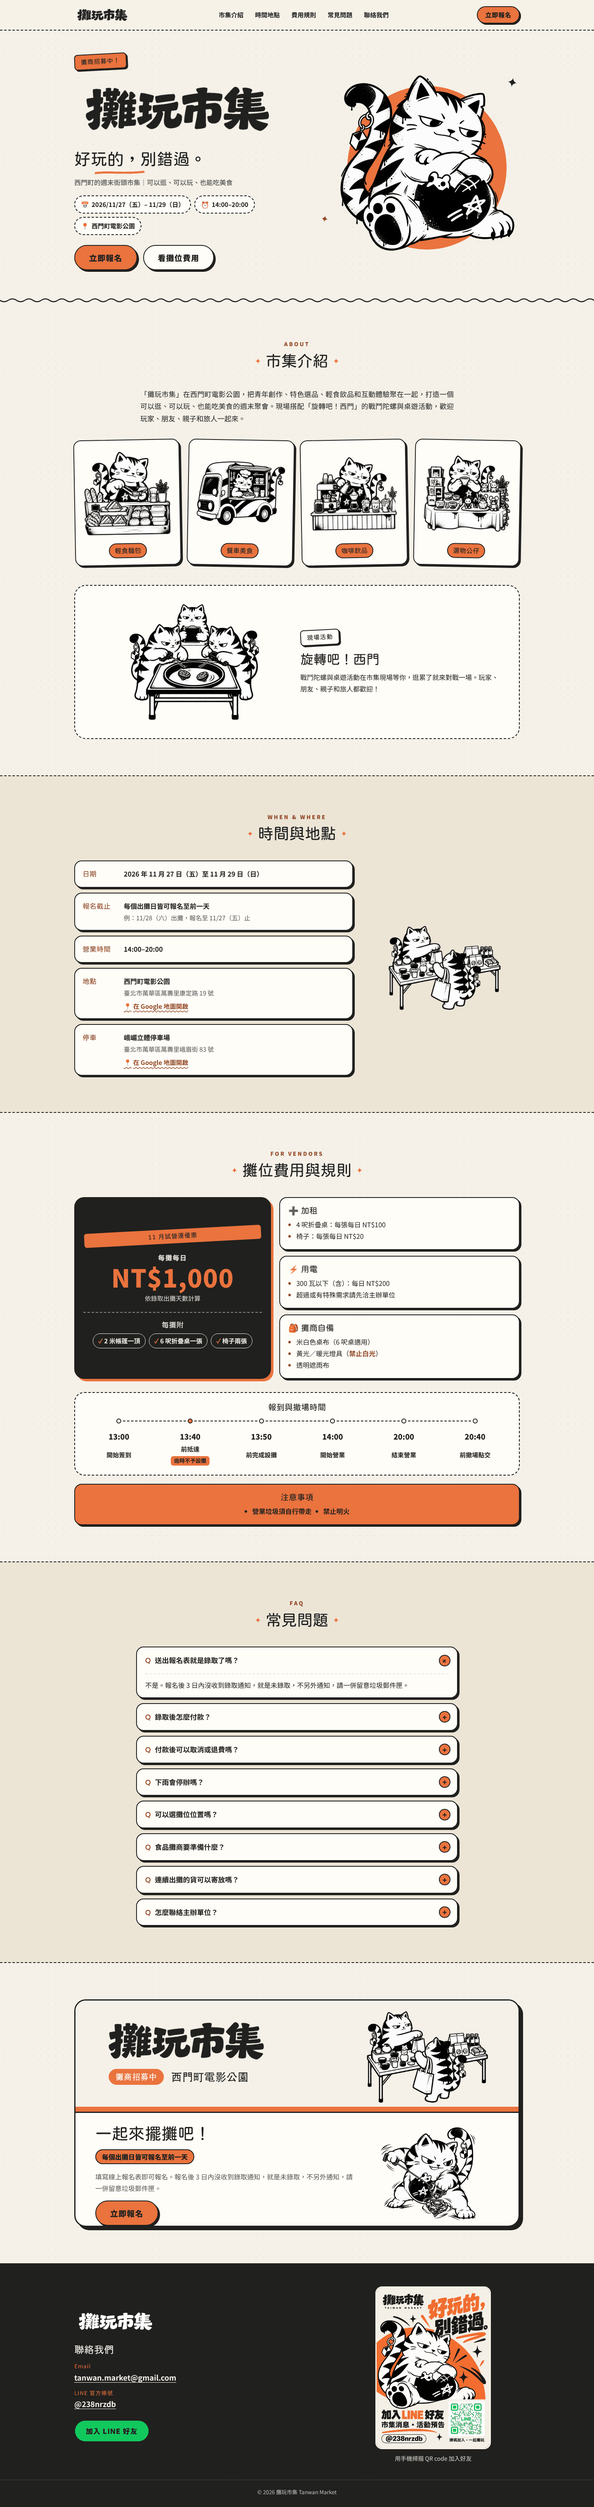
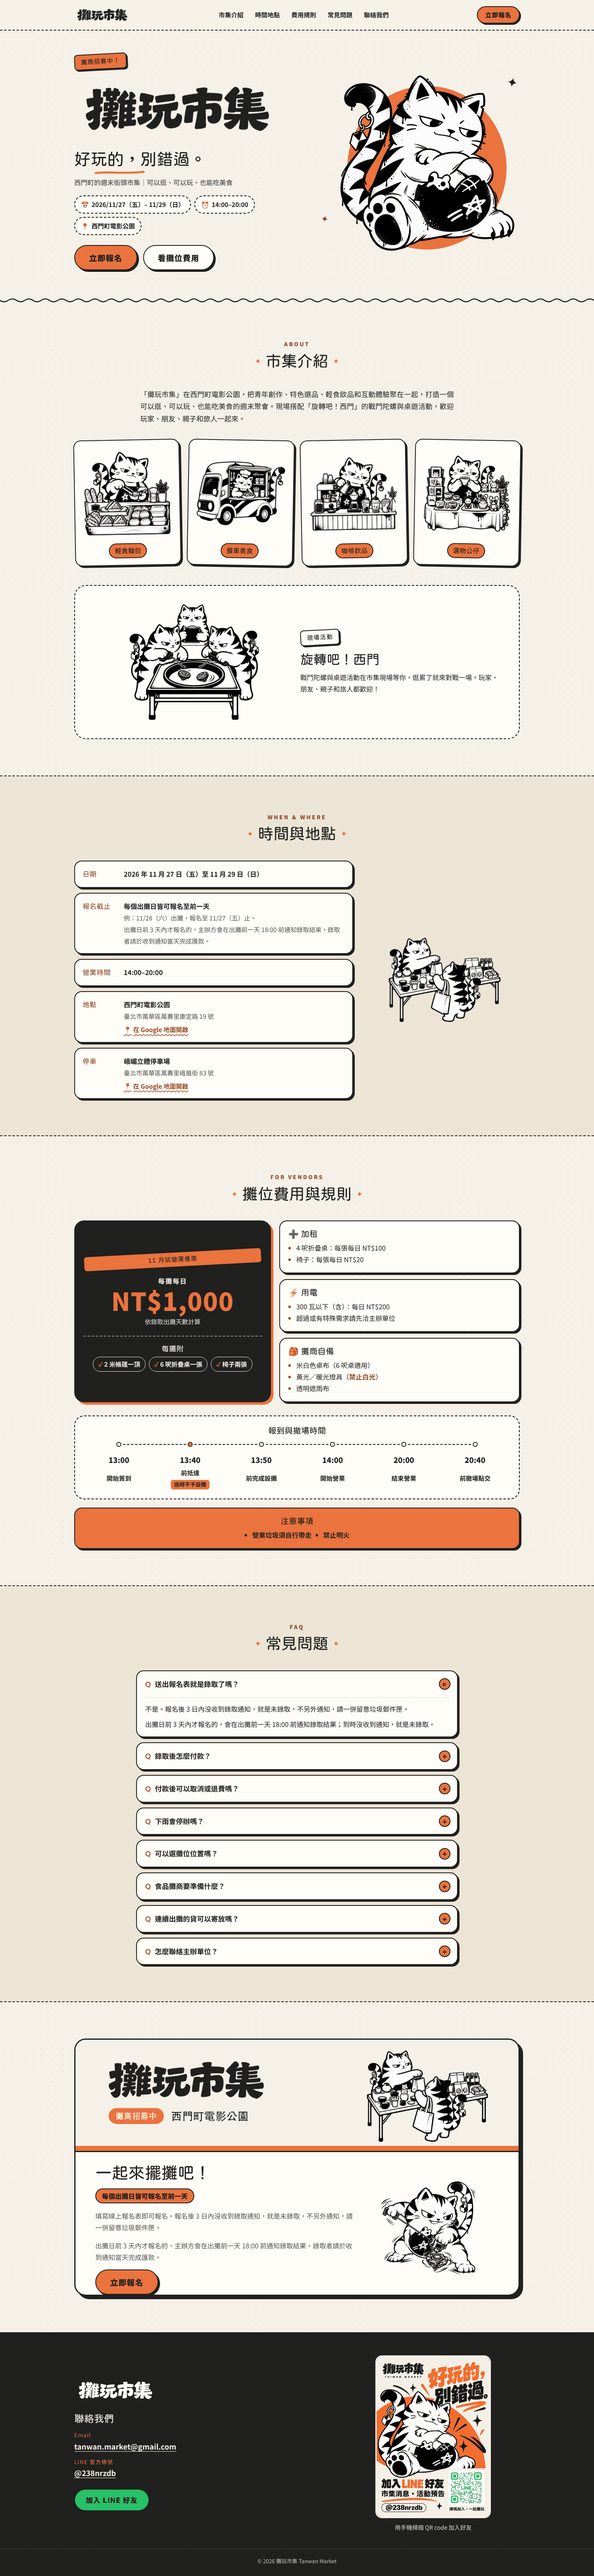
Add late-signup rule: notify by 18:00 the day before, pay same day
Applies to sign-ups within 3 days of a market day. Shown in the
time & place section, signup block and the two related FAQ answers.

Claude-Session: https://claude.ai/code/session_01XVwieRL5ZGmShYCTr5c7x7

diff --git a/index.html b/index.html
@@ -148,7 +148,7 @@
             </div>
             <div class="info-item">
               <dt>報名截止</dt>
-              <dd>每個出攤日皆可報名至前一天<br><span class="muted">例：11/28（六）出攤，報名至 11/27（五）止</span></dd>
+              <dd>每個出攤日皆可報名至前一天<br><span class="muted">例：11/28（六）出攤，報名至 11/27（五）止。<br>出攤日前 3 天內才報名的，主辦方會在出攤前一天 18:00 前通知錄取結果，錄取者請於收到通知當天完成匯款。</span></dd>
             </div>
             <div class="info-item">
               <dt>營業時間</dt>
@@ -264,11 +264,11 @@
         <div class="faq-list">
           <details class="faq">
             <summary>送出報名表就是錄取了嗎？</summary>
-            <div class="faq-body"><p>不是。報名後 3 日內沒收到錄取通知，就是未錄取，不另外通知，請一併留意垃圾郵件匣。</p></div>
+            <div class="faq-body"><p>不是。報名後 3 日內沒收到錄取通知，就是未錄取，不另外通知，請一併留意垃圾郵件匣。</p><p>出攤日前 3 天內才報名的，會在出攤前一天 18:00 前通知錄取結果；到時沒收到通知，就是未錄取。</p></div>
           </details>
           <details class="faq">
             <summary>錄取後怎麼付款？</summary>
-            <div class="faq-body"><p>收到錄取通知後 3 日內匯款，並填寫匯款回傳單。</p></div>
+            <div class="faq-body"><p>收到錄取通知後 3 日內匯款，並填寫匯款回傳單。</p><p>出攤日前 3 天內才報名、在出攤前一天收到錄取通知的，請於收到通知當天完成匯款並填寫匯款回傳單。</p></div>
           </details>
           <details class="faq">
             <summary>付款後可以取消或退費嗎？</summary>
@@ -309,6 +309,7 @@
               <!-- ✏ 報名截止日 -->
               <p class="signup-deadline">每個出攤日皆可報名至前一天</p>
               <p>填寫線上報名表即可報名。報名後 3 日內沒收到錄取通知，就是未錄取，不另外通知，請一併留意垃圾郵件匣。</p>
+              <p>出攤日前 3 天內才報名的，主辦方會在出攤前一天 18:00 前通知錄取結果，錄取者請於收到通知當天完成匯款。</p>
               <a class="btn btn-lg" href="https://forms.gle/8Fhi1L7nHp1qh5zT6" target="_blank" rel="noopener">立即報名<span class="sr-only">（另開新分頁）</span></a>
             </div>
             <img class="signup-cat" src="assets/cat-launch.png" alt="攤玩貓拉線發射戰鬥陀螺" width="800" height="800" loading="lazy">

diff --git a/styles.css b/styles.css
@@ -594,6 +594,7 @@ a { color: inherit; }
   border-top: 2px dashed var(--paper-deep);
 }
 .faq-body p { margin: 0; }
+.faq-body p + p { margin-top: .6em; }
 .faq-body a { color: var(--orange-ink); font-weight: 700; }
 
 /* ---------- signup ---------- */
